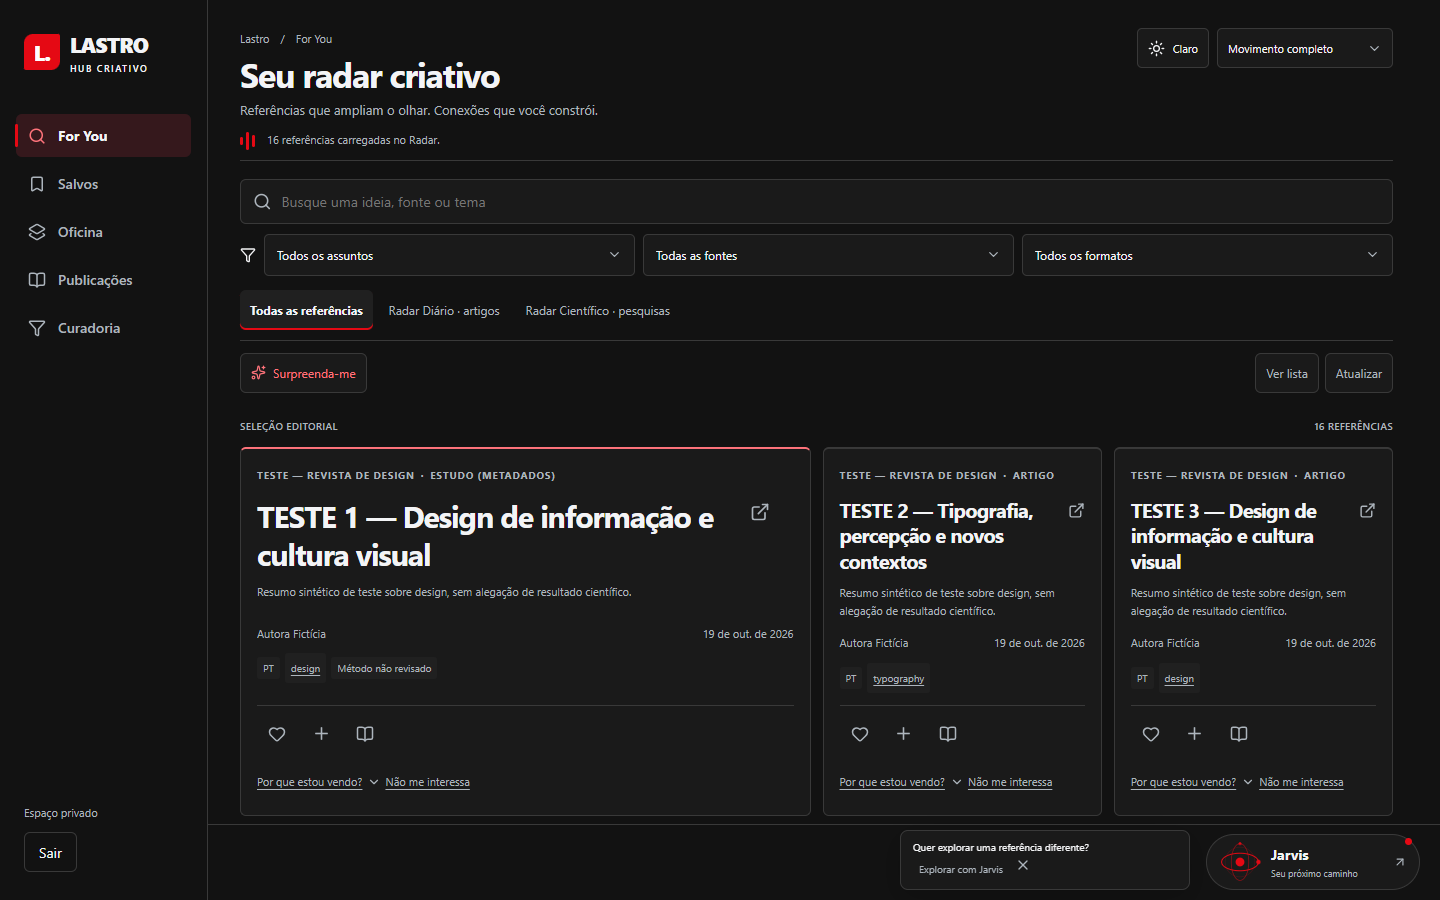
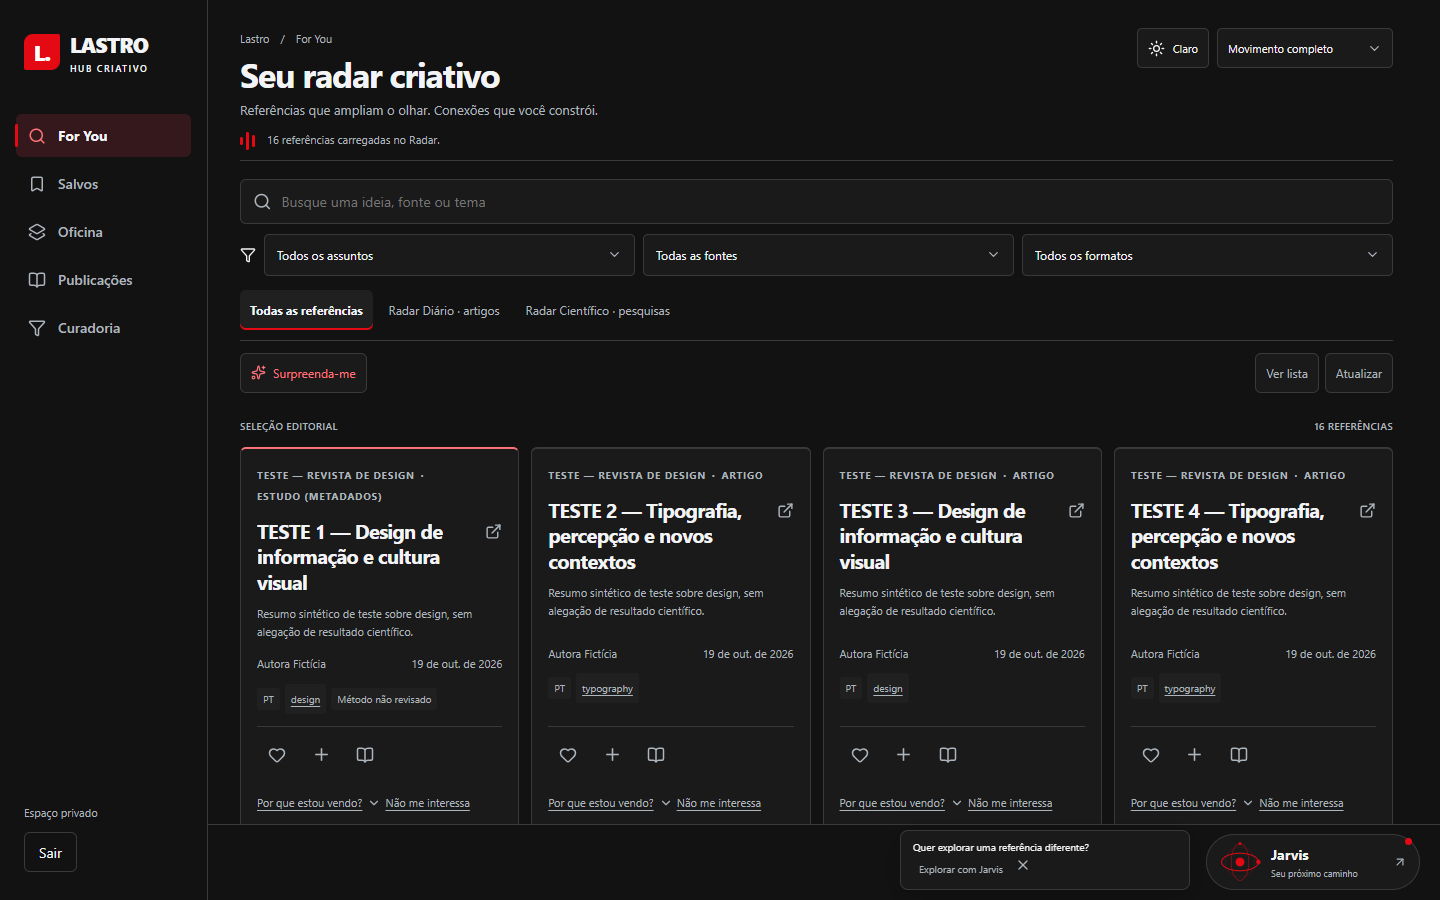
fix: standardize feed card sizes and add smooth hover zoom

diff --git a/apps/web/src/styles.css b/apps/web/src/styles.css
@@ -2496,15 +2496,18 @@ summary:hover,
     background 200ms,
     border-color 200ms,
     color 200ms,
-    transform 220ms var(--ease),
+    transform 260ms var(--ease),
     box-shadow 220ms;
 }
-:root[data-motion="full"] .content-card:hover {
-  transform: translateY(-3px);
-  box-shadow: 0 8px 22px var(--shadow-color);
+@media (hover: hover) and (pointer: fine) and (prefers-reduced-motion: no-preference) {
+  :root[data-motion="full"] .content-card:hover {
+    transform: scale(1.025);
+    z-index: 2;
+    box-shadow: 0 8px 22px var(--shadow-color);
+  }
 }
 :root[data-motion="full"] .content-card {
-  animation: editorial-enter 420ms var(--ease) both;
+  animation: editorial-enter 420ms var(--ease) backwards;
 }
 :root[data-motion="full"] .content-card:nth-child(2) {
   animation-delay: 35ms;
@@ -2852,9 +2855,11 @@ summary:hover,
   grid-template-columns: repeat(4, minmax(0, 1fr));
   gap: 12px;
   align-items: stretch;
+  grid-auto-rows: 1fr;
 }
-.feed-grid > .content-card.featured {
-  grid-column: span 2;
+.view-list .card-grid.feed-grid {
+  grid-template-columns: 1fr;
+  grid-auto-rows: auto;
 }
 .feed-grid > .content-card {
   overflow: hidden;
@@ -2885,10 +2890,6 @@ summary:hover,
   line-height: 1.28;
   letter-spacing: -0.035em;
   font-weight: 680;
-}
-.feed-grid > .content-card.featured .article-link h3 {
-  max-width: 28ch;
-  font-size: clamp(22px, 2.1vw, 30px);
 }
 .feed-grid .description {
   font-size: 11px;
@@ -2936,11 +2937,7 @@ summary:hover,
   .card-grid.feed-grid {
     grid-template-columns: 1fr;
   }
-  .feed-grid > .content-card.featured {
-    grid-column: auto;
-  }
-  .feed-grid .article-link h3,
-  .feed-grid > .content-card.featured .article-link h3 {
+  .feed-grid .article-link h3 {
     font-size: 21px;
   }
 }

diff --git a/apps/web/src/ReferenceCards.tsx b/apps/web/src/ReferenceCards.tsx
@@ -76,7 +76,6 @@ type CardProps = {
   onNote?: (c: Content) => void;
   onExplore?: (topic: string) => void;
   busy: boolean;
-  featured?: boolean;
   discovering?: boolean;
 };
 export function ContentCard({
@@ -90,7 +89,6 @@ export function ContentCard({
   onNote,
   onExplore,
   busy,
-  featured = false,
   discovering = false,
 }: CardProps) {
   const [why, setWhy] = useState(false);
@@ -101,7 +99,7 @@ export function ContentCard({
     <article
       id={`content-${item.id}`}
       tabIndex={-1}
-      className={`content-card kind-${item.kind} ${item.state.selected ? "is-selected" : ""} ${item.state.favorite ? "is-saved" : ""} ${item.state.read ? "is-read" : ""} ${discovering ? "is-discovering" : ""} ${featured ? "featured" : ""}`}
+      className={`content-card kind-${item.kind} ${item.state.selected ? "is-selected" : ""} ${item.state.favorite ? "is-saved" : ""} ${item.state.read ? "is-read" : ""} ${discovering ? "is-discovering" : ""}`}
     >
       {item.imageUrl && (
         <img
@@ -126,7 +124,7 @@ export function ContentCard({
           onClick={() => onOpen(item)}
         >
           <h3>{presentContent(item).originalTitle}</h3>
-          <ExternalLink size={featured ? 20 : 17} aria-hidden="true" />
+          <ExternalLink size={17} aria-hidden="true" />
         </a>
         <p className="description">
           {item.description ?? "Resumo não autorizado · leia na origem"}

diff --git a/tests/ui.spec.ts b/tests/ui.spec.ts
@@ -605,16 +605,30 @@ for (const width of [1440, 768, 390])
     await expect(page.locator(".jarvis-toggle")).toBeFocused();
   });
 
-test("Descoberta e cards: reação visual, limite do destaque e grid/lista", async ({
+test("Descoberta e cards: tamanho uniforme, ampliação suave e grid/lista", async ({
   page,
 }) => {
   await mockApi(page);
   await page.goto("/");
+  await expect(page.locator(".content-card")).toHaveCount(16);
+  const dimensions = await page
+    .locator(".content-card")
+    .evaluateAll((cards) =>
+      cards.map((card) =>
+        [
+          Math.round((card as HTMLElement).offsetWidth),
+          Math.round((card as HTMLElement).offsetHeight),
+        ].join("x"),
+      ),
+    );
+  expect(new Set(dimensions).size).toBe(1);
   const card = page.locator(".content-card").first();
   await card.hover();
   await expect
-    .poll(() => card.evaluate((e) => getComputedStyle(e).transform))
-    .not.toBe("none");
+    .poll(() =>
+      card.evaluate((e) => new DOMMatrix(getComputedStyle(e).transform).a),
+    )
+    .toBeCloseTo(1.025, 3);
   await page
     .getByRole("button", { name: "Surpreenda-me", exact: true })
     .click();

diff --git a/apps/web/src/App.tsx b/apps/web/src/App.tsx
@@ -925,11 +925,10 @@ function WorkspaceApp({ onLogout }: { onLogout: () => void }) {
                   </p>
                 )}
                 <div className="card-grid feed-grid">
-                  {feedItems.map((item, index) => (
+                  {feedItems.map((item) => (
                     <ContentCard
                       key={item.id}
                       {...cardProps(item)}
-                      featured={!exploring && (index === 0 || index === 9)}
                       discovering={discoveryId === item.id}
                       explanation={
                         !exploring

diff --git a/docs/FOR_YOU_2.md b/docs/FOR_YOU_2.md
@@ -1,6 +1,6 @@
 # For You 2.0 — direção editorial e operação
 
-O feed preserva a identidade claro/escuro do LASTRO. A grade agora entrega até 16 referências por lote, em quatro colunas quando há espaço, três ou duas em tablet e uma no celular. Dois cards por lote recebem peso tipográfico moderado. Sem imagem licenciada, o card usa título, categoria, fonte, autoria, data, idioma e ações; não cria capa ou resumo. Salvar e marcar como lido têm resposta visual imediata e reversão em erro. A seleção e os links externos mantêm os fluxos anteriores.
+O feed preserva a identidade claro/escuro do LASTRO. A grade agora entrega até 16 referências por lote, em quatro colunas quando há espaço, três ou duas em tablet e uma no celular. Os cards têm largura e altura uniformes no grid, sem destaques maiores. No desktop, o hover amplia suavemente em 2,5%, sem reorganizar a grade; a preferência por movimento reduzido é respeitada. Sem imagem licenciada, o card usa título, categoria, fonte, autoria, data, idioma e ações; não cria capa ou resumo. Salvar e marcar como lido têm resposta visual imediata e reversão em erro. A seleção e os links externos mantêm os fluxos anteriores.
 
 ## Distribuição por idioma
 
